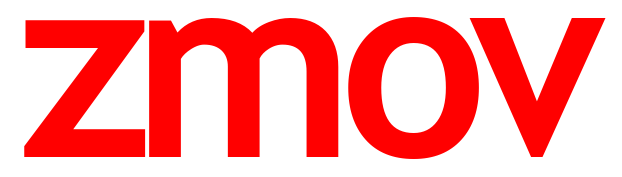
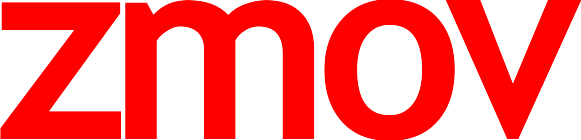
improved project screen, still alot todo

diff --git a/src/index.html b/src/index.html
@@ -83,8 +83,8 @@
                             <div id="project-large"><img src="./assets/zmovfull.png" style="width: 400px"></div>
                         </div>
                         <div id="project-info">
-                            <div id="project-small"><img src="./assets/zmov.png" style="width: 100px"></div>
-                            <div id="project-desc"><p id="project-desc-text">A website where you can watch every movie for free, this is 100% legal as we don't host the files.</p></div>
+                            <div id="project-small"><img src="./assets/zmov.png" style="height: 35px"></div>
+                            <div id="project-desc"><p id="project-desc-text">A website where you can watch every movie for free. We dont host the files, I do not endourse piracy</p></div>
                         </div>
                     </div>
                     <div id="trademe" class="project">
@@ -92,7 +92,7 @@
                             <div id="project-large"><img src="./assets/trademefull.png" style="width: 400px"></div>
                         </div>
                         <div id="project-info">
-                            <div id="project-small"><img src="./assets/trademe.png" style="width: 100px"></div>
+                            <div id="project-small"><img src="./assets/trademe.png" style="height: 35px"></div>
                             <div id="project-desc"><p id="project-desc-text">This is a clone of New Zealands largest auction site. It will have a working backend with listings and working auctions.</p></div>
                         </div>
                     </div>
@@ -101,7 +101,6 @@
                             <div id="project-large"><img src="./assets/webfull.png" style="width: 400px"></div>
                         </div>
                         <div id="project-info">
-                            <div id="project-small"><img src="./assets/favicon.png" style="width: 50px"></div>
                             <div id="project-desc"><p id="project-desc-text">Currently spending most my time on improving this site you are on right now.</p></div>
                         </div>
                     </div>
@@ -112,6 +111,7 @@
                     <div id="contact-title">
                         <p>Let's Talk!</p>
                     </div>
+                    <div id="contact-card"></div>
                 </div>
             </div>
         </div>

diff --git a/src/style.css b/src/style.css
@@ -17,15 +17,15 @@ body {
     width: 100vw;
     height: 100vh;
     overflow: hidden;
-    background-image: linear-gradient(to bottom right, rgba(28, 37, 35, 0.9) , rgba(24, 39, 33, 0.9));
+    background-image: linear-gradient(to bottom right, rgba(20, 22, 20, 0.9) , rgba(19, 22, 24, 0.9));
 }
 
 /* video card  */
 
 #video-container {
     position: absolute;
-    width: 94.5%;
-    height: 90%;
+    width: 90%;
+    height: 85.5%;
     overflow: hidden;
     border-radius: 1.25rem;
     transition: width 1s, height 1s;
@@ -39,8 +39,8 @@ body {
     display: flex;
     flex-direction: column;
     justify-content: space-between;
-    width: 94.5%;
-    height: 90%;
+    width: 90%;
+    height: 85.5%;
     background-color: rgba(20, 20, 20, 0.5);
     border-radius: 1.25rem;
     backdrop-filter: blur(40px);
@@ -270,7 +270,7 @@ body {
 }
 #projects {
     display: flex;
-    margin: 20rem;
+    margin: 25rem;
     font-size: 1.5rem;
     height: 100vh;
     flex-direction: column;
@@ -281,11 +281,17 @@ body {
     justify-content: center;
     font-size: 3rem;
     font-weight: bold;
+    margin-top: 2rem;
 }
 .project {
     display: flex;
     flex-direction: row;
     justify-content: space-between;
+    outline: 1px solid;
+    outline-color: rgba(255, 255, 255, .5);
+    background-color: rgba(255,255,255,.1);
+    border-radius: 1rem;
+    margin-bottom: 2rem;
 }
 #project-image {
     margin: 10px;
@@ -299,6 +305,9 @@ body {
     justify-content: center;
     text-align: center;
 }
+#project-small {
+    margin: 10px;
+}
 
 /* shrink page */
 
@@ -307,7 +316,7 @@ body {
     justify-content: center;
     align-items: center;
     height: 70vh;
-    transition: opacity 0.3s ease;
+    transition: opacity 1s ease;
 }
 #contact-title {
     text-align: center;
@@ -401,6 +410,7 @@ body {
     }
     #card {
         height: 97%;
+        width: 94.5%
     }
 }
 @media (max-width: 470px) {

diff --git a/src/script.js b/src/script.js
@@ -125,7 +125,7 @@ let expanded = document.getElementById('expanded');
 let shrink = document.getElementById('shrink');
 let projects = document.getElementById('projects');
 let isAnimating = false;
-const animationDelay = 1500;
+const animationDelay = 1000;
 
 document.addEventListener('wheel', function(event) {
   if (isAnimating) return;
@@ -177,10 +177,10 @@ function startAnimation(state, callback) {
     expanded.style.opacity = "0";
     shrink.style.opacity = "1";
   } else {
-    card.style.width = "94.5%";
-    card.style.height = "90%";
-    videoContainer.style.width = "94.5%";
-    videoContainer.style.height = "90%";
+    card.style.width = "90%";
+    card.style.height = "85.5%";
+    videoContainer.style.width = "90%";
+    videoContainer.style.height = "85.5%";
     card.style.border = "1px solid rgba(255,255,255,0.3)";
     card.style.borderRadius = "1.25rem";
     cardTop.style.opacity = "1";
